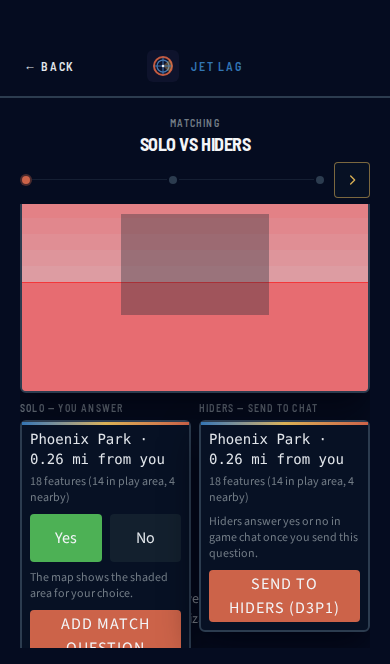
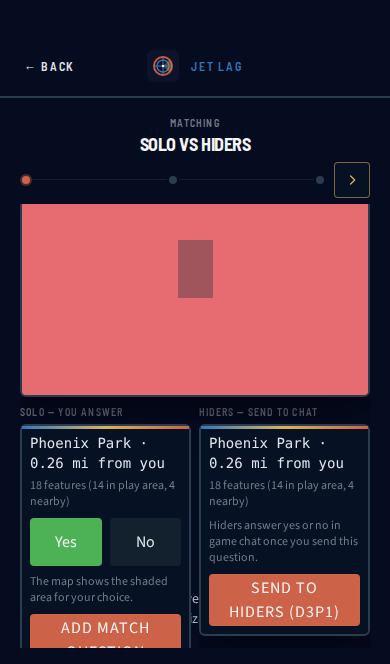
test(e2e): fix main CI satellite toggle and tutorial split baseline (#5)

Changed region(s): [[0.0308, 0.5723, 0.9538, 0.994], [0.0308, 0.3012, 0.9538, 0.4819]]

diff --git a/e2e/features/settings/settings.spec.ts b/e2e/features/settings/settings.spec.ts
@@ -8,6 +8,9 @@ test.describe("settings", () => {
     await openSettings(page);
 
     const settingsPanel = page.getByRole("tabpanel");
+    const lowPowerToggle = settingsPanel.getByLabel("Low power mode");
+    await expect(lowPowerToggle).toBeChecked();
+    await lowPowerToggle.click();
     await settingsPanel.getByRole("button", { name: "Satellite" }).click();
     await page.getByRole("tab", { name: "Layers" }).click();
     await settingsPanel.getByLabel("Transit").click();